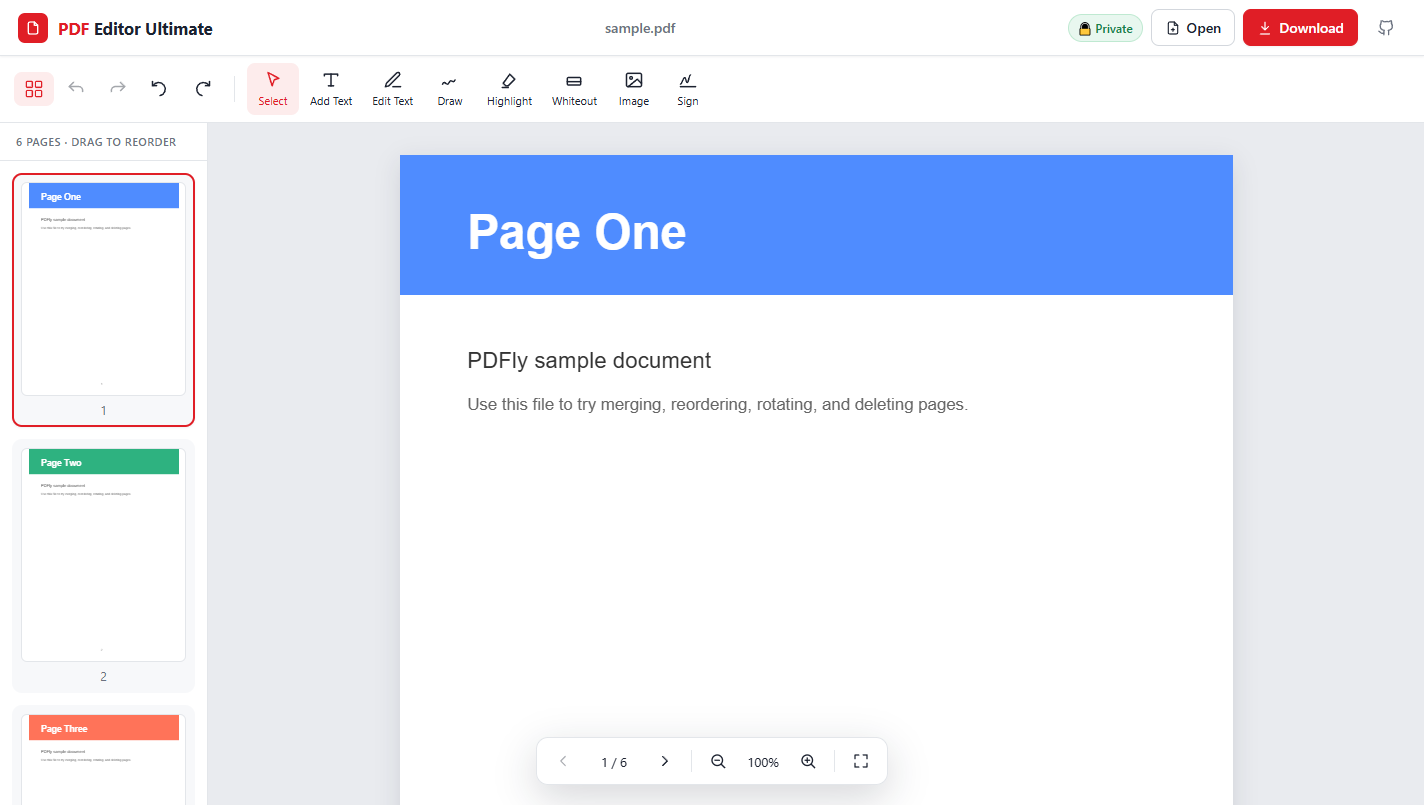
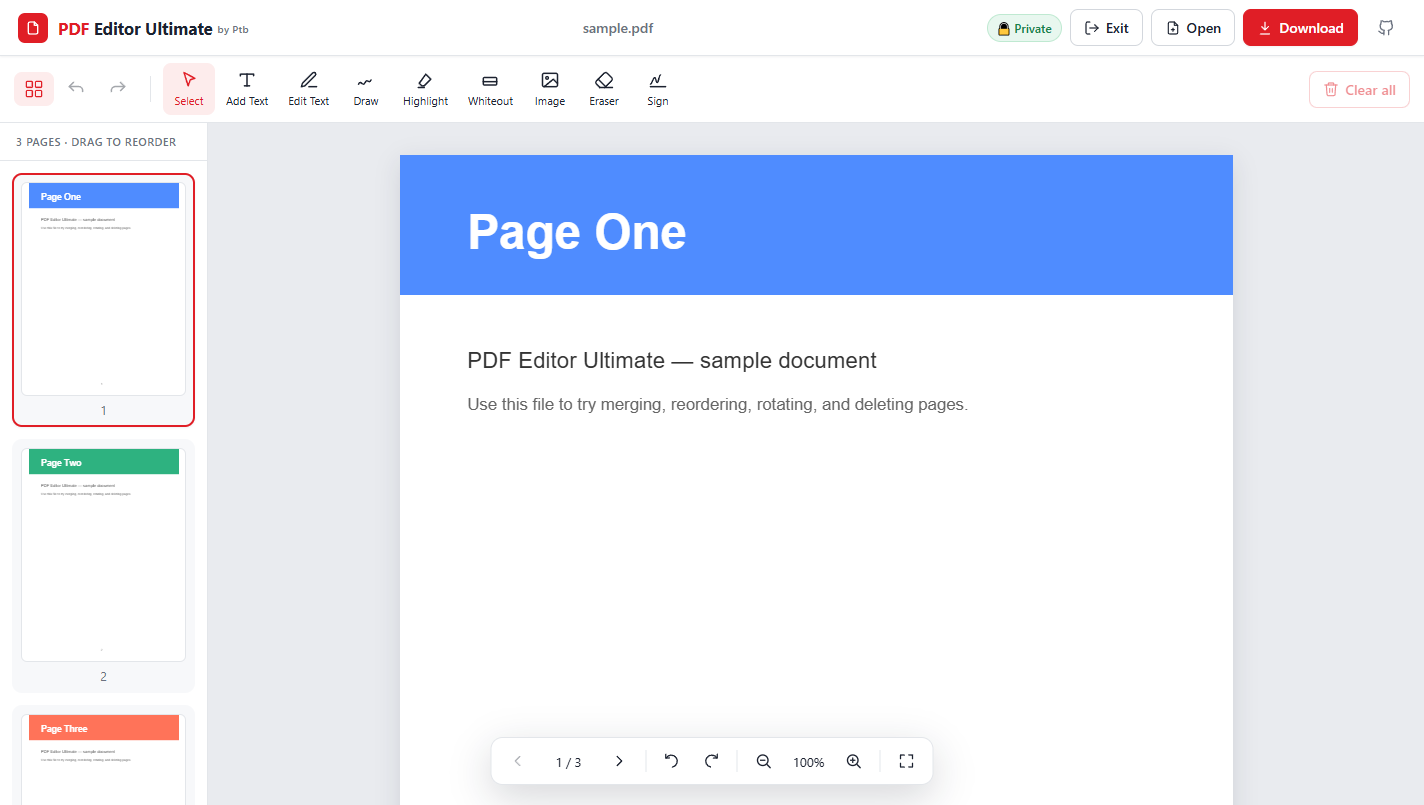
Fix edit-text duplication on re-edit; add 'by Ptb' branding; update README screenshot
- Editing an already-edited run now re-selects it instead of stacking a second cover+copy (fixes the repeated-text bug when toggling bold)
- Brand shows 'PDF Editor Ultimate by Ptb'
- Refresh README screenshot (Exit button + branding)

diff --git a/src/components/PageEditor.tsx b/src/components/PageEditor.tsx
@@ -409,6 +409,18 @@ export function PageEditor({
             .sort((a, b) => a.d - b.d)[0].it
         }
         if (!hit) return
+        // If this run was already replaced (a text box sits here), just re-select
+        // it — never stack a second cover + copy on top (that looked like a repeat).
+        const existing = annotations.find(
+          (a): a is TextAnn =>
+            a.type === 'text' &&
+            Math.abs(a.x - hit.x) < hit.fontSize * 0.6 &&
+            Math.abs(a.yTop - (hit.y + hit.fontSize * 0.9)) < hit.fontSize * 0.8,
+        )
+        if (existing) {
+          setEditingId(existing.id)
+          return
+        }
         const bg = sampleBg(hit)
         const textColor = sampleTextColor(hit, bg)
         const pad = hit.fontSize * 0.15

diff --git a/src/styles.css b/src/styles.css
@@ -89,6 +89,15 @@ body {
   color: var(--accent);
 }
 
+.brand-by {
+  font-size: 10px;
+  font-weight: 600;
+  color: var(--text-dim);
+  margin-left: 5px;
+  letter-spacing: 0.3px;
+  vertical-align: 2px;
+}
+
 .topbar-center {
   flex: 1;
   text-align: center;

diff --git a/src/components/Toolbar.tsx b/src/components/Toolbar.tsx
@@ -42,6 +42,7 @@ export function Toolbar({
         </span>
         <span className="brand-name">
           <span className="brand-red">PDF</span> Editor Ultimate
+          <span className="brand-by">by Ptb</span>
         </span>
       </div>
 